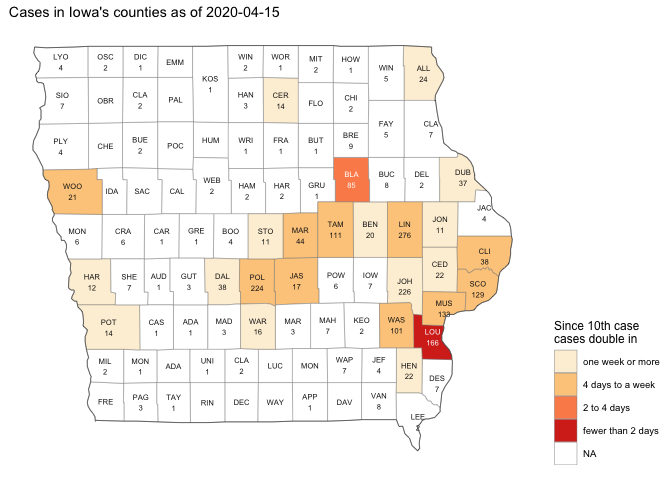
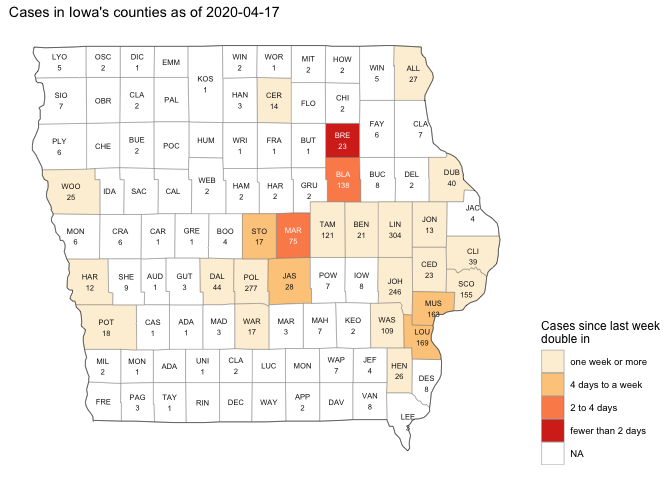
update to show recent trend

diff --git a/README.md b/README.md
@@ -22,4 +22,7 @@ International License](https://creativecommons.org/licenses/by/4.0/).
 
 ## Examples
 
+This chart shows the number of cases in Iowa - fill color shows recent
+trend (last week) of the number of days in which cases double.
+
 ![](README_files/figure-gfm/unnamed-chunk-1-1.png)<!-- -->
